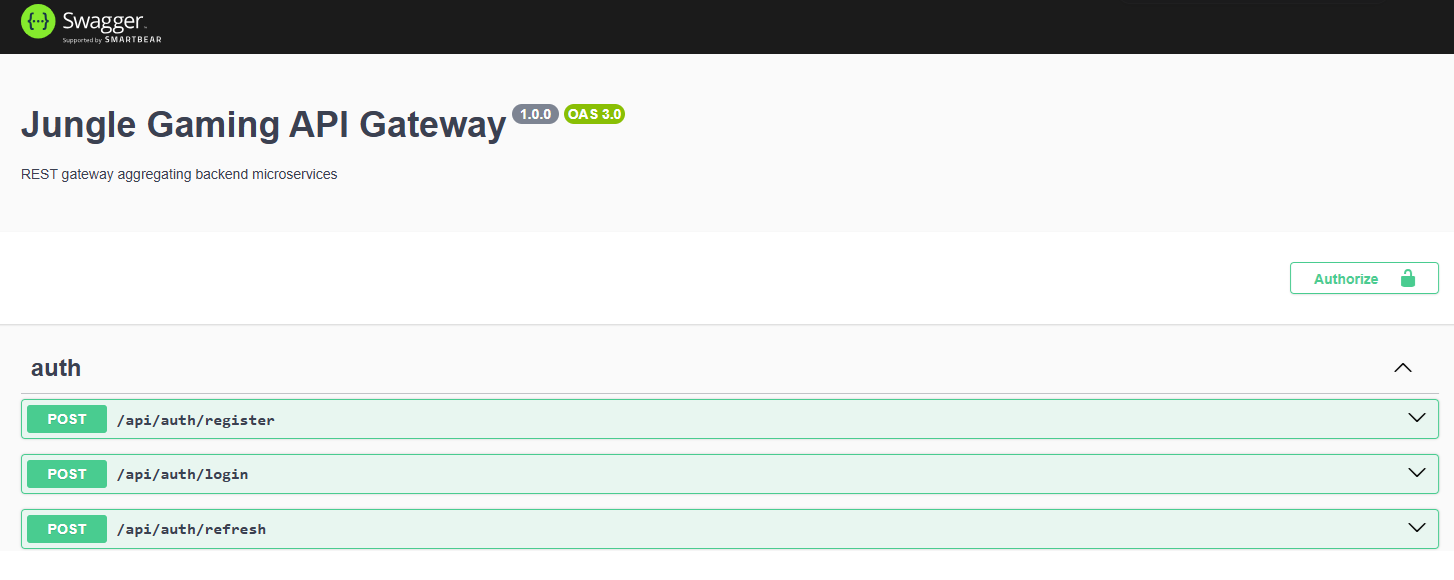
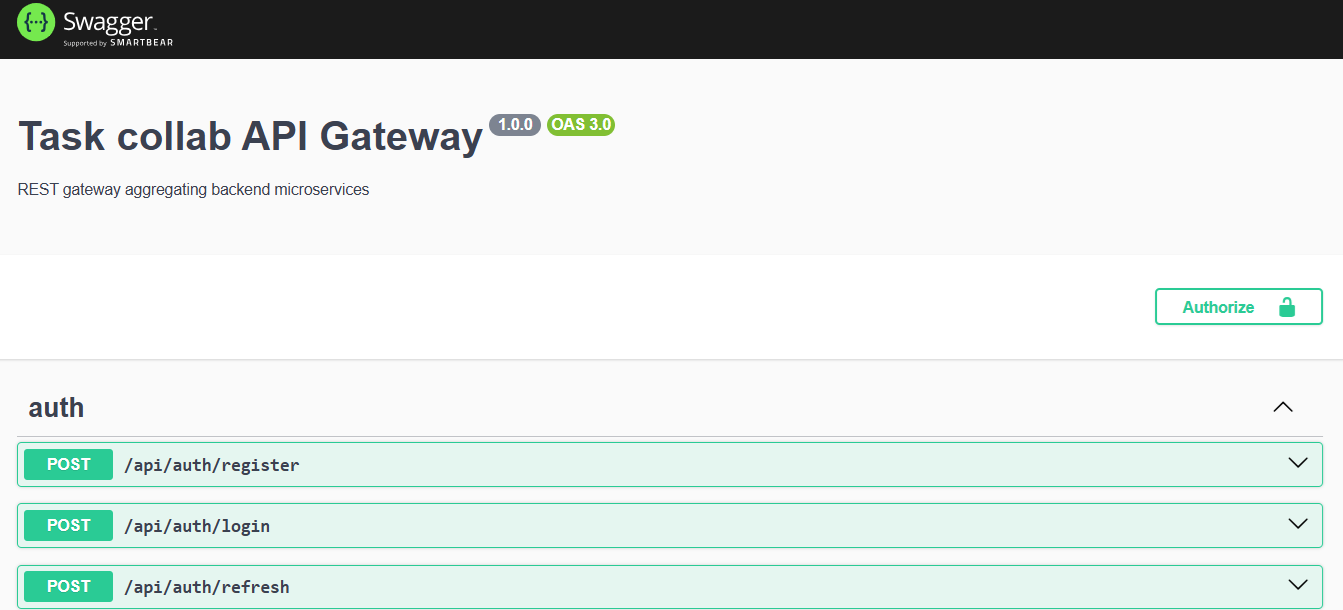
docs: rename Jungle branding to Task Collab

diff --git a/apps/web/src/routes/Login.tsx b/apps/web/src/routes/Login.tsx
@@ -22,7 +22,7 @@ export const LoginPage: React.FC = () => {
         <div className="bg-gaming-light/50 backdrop-blur-sm border-2 border-border rounded-2xl p-8 shadow-xl">
           <h1 className="text-3xl font-gaming font-bold text-primary mb-2 text-center">Entrar</h1>
           <p className="text-foreground/70 text-sm text-center mb-8">
-            Acesse sua conta Jungle Tasks
+            Acesse sua conta Task Collab
           </p>
           <form onSubmit={handleSubmit(submitValues)} className="space-y-6">
             <div className="space-y-2">

diff --git a/apps/web/src/routes/Register.tsx b/apps/web/src/routes/Register.tsx
@@ -23,7 +23,7 @@ export const RegisterPage: React.FC = () => {
           <h1 className="text-3xl font-gaming font-bold text-primary mb-2 text-center">
             Criar conta
           </h1>
-          <p className="text-foreground/70 text-sm text-center mb-8">Junte-se ao Jungle Tasks</p>
+          <p className="text-foreground/70 text-sm text-center mb-8">Junte-se ao Task Collab</p>
           <form onSubmit={handleSubmit(submit)} className="space-y-6">
             <div className="space-y-2">
               <Label htmlFor="email">E-mail</Label>

diff --git a/apps/api-gateway/src/main.ts b/apps/api-gateway/src/main.ts
@@ -34,7 +34,7 @@ async function bootstrap(): Promise<void> {
   app.enableCors({ origin, credentials });
 
   const swaggerConfig = new DocumentBuilder()
-    .setTitle('Jungle Gaming API Gateway')
+    .setTitle('Task collab API Gateway')
     .setDescription('REST gateway aggregating backend microservices')
     .setVersion('1.0.0')
     .addBearerAuth({ type: 'http', scheme: 'bearer', bearerFormat: 'JWT' })

diff --git a/apps/web/src/components/Header.tsx b/apps/web/src/components/Header.tsx
@@ -63,7 +63,7 @@ export const Header: React.FC<HeaderProps> = ({ isAuthenticated }) => {
           to="/"
           className="font-gaming font-bold text-xl text-primary hover:text-accent transition-colors duration-300 text-glow"
         >
-          Jungle Tasks
+          Task Collab
         </Link>
 
         {/* Desktop Navigation */}

diff --git a/apps/web/index.html b/apps/web/index.html
@@ -3,7 +3,7 @@
   <head>
     <meta charset="UTF-8" />
     <meta name="viewport" content="width=device-width, initial-scale=1.0" />
-    <title>Jungle Tasks</title>
+    <title>Task Collab</title>
     <link rel="icon" type="image/svg+xml" href="/favicon.svg" />
     <link rel="icon" type="image/x-icon" href="/favicon.ico" />
   </head>
